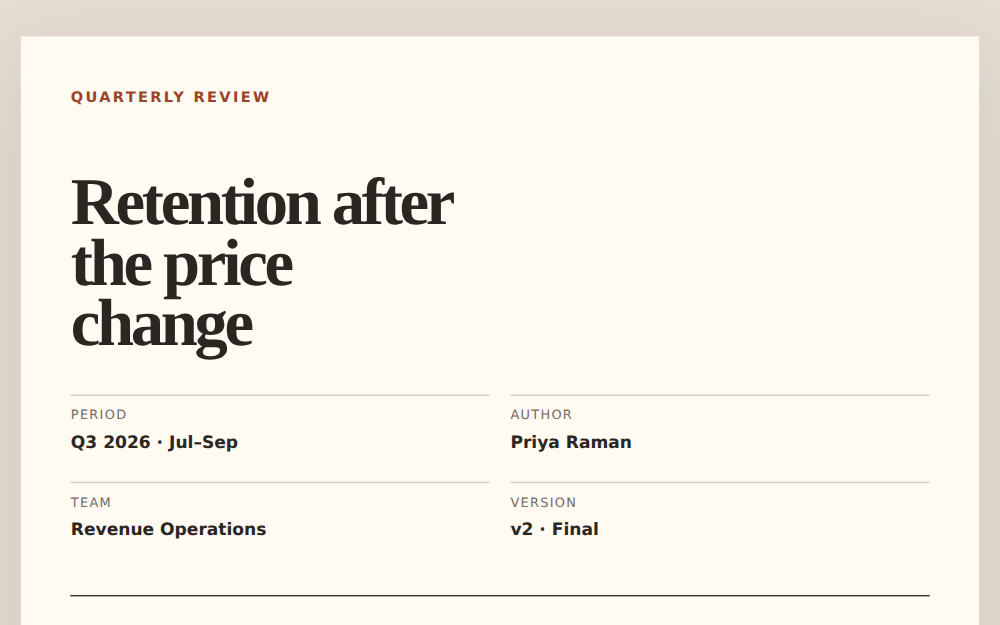
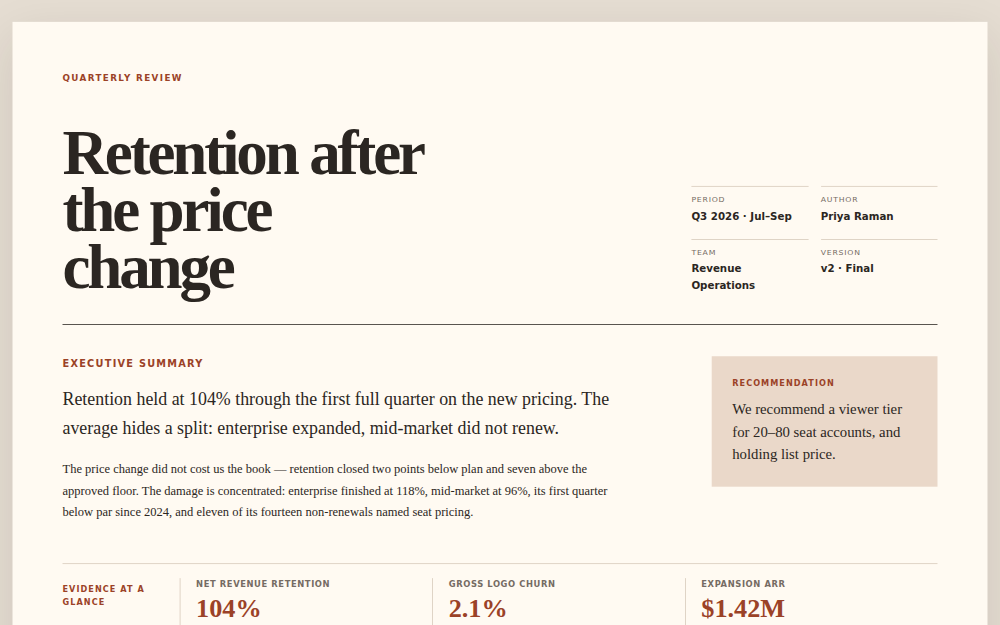
fix(templates): align gallery framing with approved designs

diff --git a/templates/manifest.ts b/templates/manifest.ts
@@ -75,7 +75,7 @@ export const starterTemplateManifest = [
         "content_file": "proposal.html",
         "thumbnail": "/assets/template-thumbs/proposal.png",
         "slots": [],
-        "thumbnail_viewport": 768
+        "thumbnail_viewport": 1280
       },
       {
         "slug": "spec",
@@ -111,11 +111,11 @@ export const starterTemplateManifest = [
         "slug": "report",
         "category": "research",
         "name": "Report",
-        "description": "The serious long document: a masthead over a two-column opening band — executive summary left, the quarter's headline figures right — then numbered sections carrying a ranked magnitude figure, a pull quote, and owned next steps with dates.",
+        "description": "The serious long document: an editorial masthead followed by a briefing band that puts the finding beside its recommendation and quarter evidence, then numbered sections with a ranked magnitude figure, a customer quote, and owned next steps with dates.",
         "type": "html",
         "content_file": "report.html",
         "thumbnail": "/assets/template-thumbs/report.png",
-        "thumbnail_viewport": 768,
+        "thumbnail_viewport": 1280,
         "slots": []
       },
       {
@@ -202,11 +202,12 @@ export const starterTemplateManifest = [
         "slug": "project-plan",
         "category": "plans",
         "name": "Project plan",
-        "description": "Phases, owners, dates and dependencies on one page: a seventeen-week rail with a today line and a part-filled bar for the phase in flight, a phase card per stage with its deliverables and exit criterion, what the plan depends on other teams for, and the risks with mitigations.",
+        "description": "Phases, owners, dates and dependencies on one page: a seventeen-week phase-and-gate ledger with a today line and all four phases, followed by each phase's deliverables and exit criterion, cross-team dependencies, and risks with mitigations.",
         "type": "html",
         "content_file": "project-plan.html",
         "thumbnail": "/assets/template-thumbs/project-plan.png",
-        "slots": []
+        "slots": [],
+        "thumbnail_viewport": 1440
       },
       {
         "slug": "runbook",

diff --git a/BUILD-NOTES.md b/BUILD-NOTES.md
@@ -532,8 +532,18 @@ of shipping the preview-only “Alternative A/B” labels. Their resulting canon
[1 lines of base64/hex data omitted]
 branch point matched the previous canonical files exactly through `</html>` plus the final newline;
 the frame server's appended height reporter is not template source. Proposal's catalog description
-is updated because the approved design leads with a dated ask rather than a hero number. The other
-catalog metadata remains unchanged.
+is updated because the approved design leads with a dated ask rather than a hero number. Report's
+description now names its finding → recommendation → evidence opening instead of the superseded
+summary/figures split, and Project plan's now names the phase/gate/dependency ledger rather than
+stage cards. Names, slugs, categories, formats and slots are unchanged.
+
+The gallery crops are also part of the review contract, not an incidental screenshot. Proposal and
+Report use a 1280px thumbnail viewport so their signature dated ask and finding/recommendation/
+evidence band appear inside the 16:10 crop. Project plan uses 1440px so the crop includes all four
+schedule rows and the today marker without shrinking the ledger to an illegible overview. Checklist
+and Service health keep their existing framing. `thumbnail_viewport` changes only the Chromium
+canvas used to derive the committed 1000×625 PNG; it does not alter the template source or runtime
+frame layout.
 
 After modifying a template, build browser assets first and regenerate thumbnails with the canonical
 tooling:
